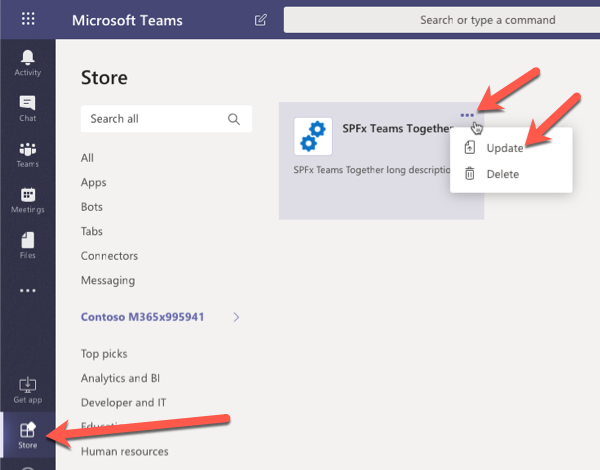
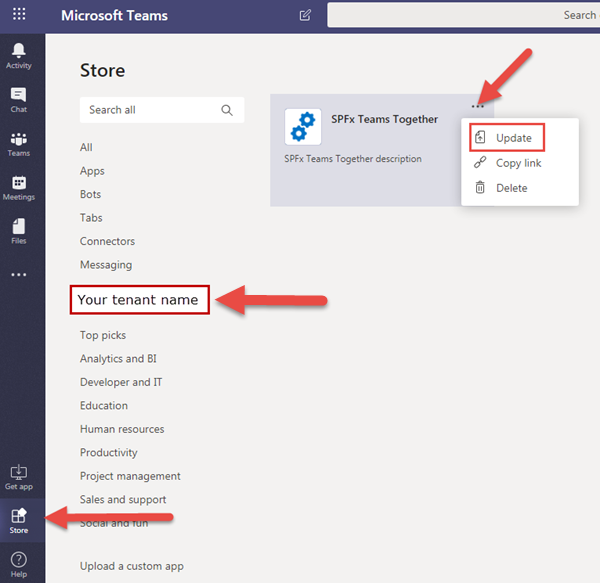
Update instructions for Ex 3

Changed region(s): [[0.0, 0.0, 1.0, 1.0], [0.36, 0.2383, 0.39, 0.2681], [0.36, 0.1787, 0.39, 0.2085]]

diff --git a/Demos/03-spfxteams/README.md b/Demos/03-spfxteams/README.md
@@ -75,12 +75,12 @@ In this demo, you will update the configuration settings for the SharePoint Fram
         ![Screenshot dragging the SharePoint package into the Apps for SharePoint library](../../Images/updateSolution-01.png)
 
 1. Test the changes.
-    1. Navigate back to the SharePoint page where you added the web part in the previous demo.
+    1. Navigate back to the SharePoint page where you added the web part in the previous exercise and refresh the page.
     1. Edit the page and add a value to the new custom property you added. Notice how the page shows the value of the configuration setting:
 
         ![Screenshot of the SPFx solution in SharePoint](../../Images/updateSettings-01.png)
 
-    1. Now go back into the Microsoft Teams team. Select the down arrow to the right of the **SPFx Teams Together** tab and select **Settings**.
+    1. Now go back into the Microsoft Teams team. Refresh the page if you have Teams open in a web browser. Select the down arrow to the right of the **SPFx Teams Together** tab and select **Settings**.
 
         ![Screenshot of the SPFx solution in Microsoft Teams](../../Images/updateSettings-02.png)
 
@@ -99,7 +99,7 @@ In this demo, you will update the configuration settings for the SharePoint Fram
     1. Select the down-arrow to the right of the **SPFx Teams Together** tab and select **Remove**.
     1. When prompted, select **Remove**.
 1. Update the previously installed Microsoft Teams app:
-    1. Within the Microsoft Teams client, select **Store** in the lower right corner.
+    1. Within the Microsoft Teams client, select **Store** in the lower right corner, and then select your tenant from the sidebar menu.
     1. Select the app menu, then select **Update**.
 
         ![Screenshot of the SPFx solution in Microsoft Teams](../../Images/updateSettings-04.png)

diff --git a/Lab.md b/Lab.md
@@ -384,12 +384,12 @@ In this exercise, you will update the configuration settings for the SharePoint 
         ![Screenshot dragging the SharePoint package into the Apps for SharePoint library](./Images/updateSolution-01.png)
 
 1. Test the changes.
-    1. Navigate back to the SharePoint page where you added the web part in the previous exercise.
+    1. Navigate back to the SharePoint page where you added the web part in the previous exercise and refresh the page.
     1. Edit the page and add a value to the new custom property you added. Notice how the page shows the value of the configuration setting:
 
         ![Screenshot of the SPFx solution in SharePoint](./Images/updateSettings-01.png)
 
-    1. Now go back into the Microsoft Teams team. Select the down arrow to the right of the **SPFx Teams Together** tab and select **Settings**.
+    1. Now go back into the Microsoft Teams team. Refresh the page if you have Teams open in a web browser. Select the down arrow to the right of the **SPFx Teams Together** tab and select **Settings**.
 
         ![Screenshot of the SPFx solution in Microsoft Teams](./Images/updateSettings-02.png)
 
@@ -408,7 +408,7 @@ In this exercise, you will update the configuration settings for the SharePoint 
     1. Select the down-arrow to the right of the **SPFx Teams Together** tab and select **Remove**.
     1. When prompted, select **Remove**.
 1. Update the previously installed Microsoft Teams app:
-    1. Within the Microsoft Teams client, select **Store** in the lower right corner.
+    1. Within the Microsoft Teams client, select **Store** in the lower right corner, and then select your tenant from the sidebar menu.
     1. Select the app menu, then select **Update**.
 
         ![Screenshot of the SPFx solution in Microsoft Teams](./Images/updateSettings-04.png)
